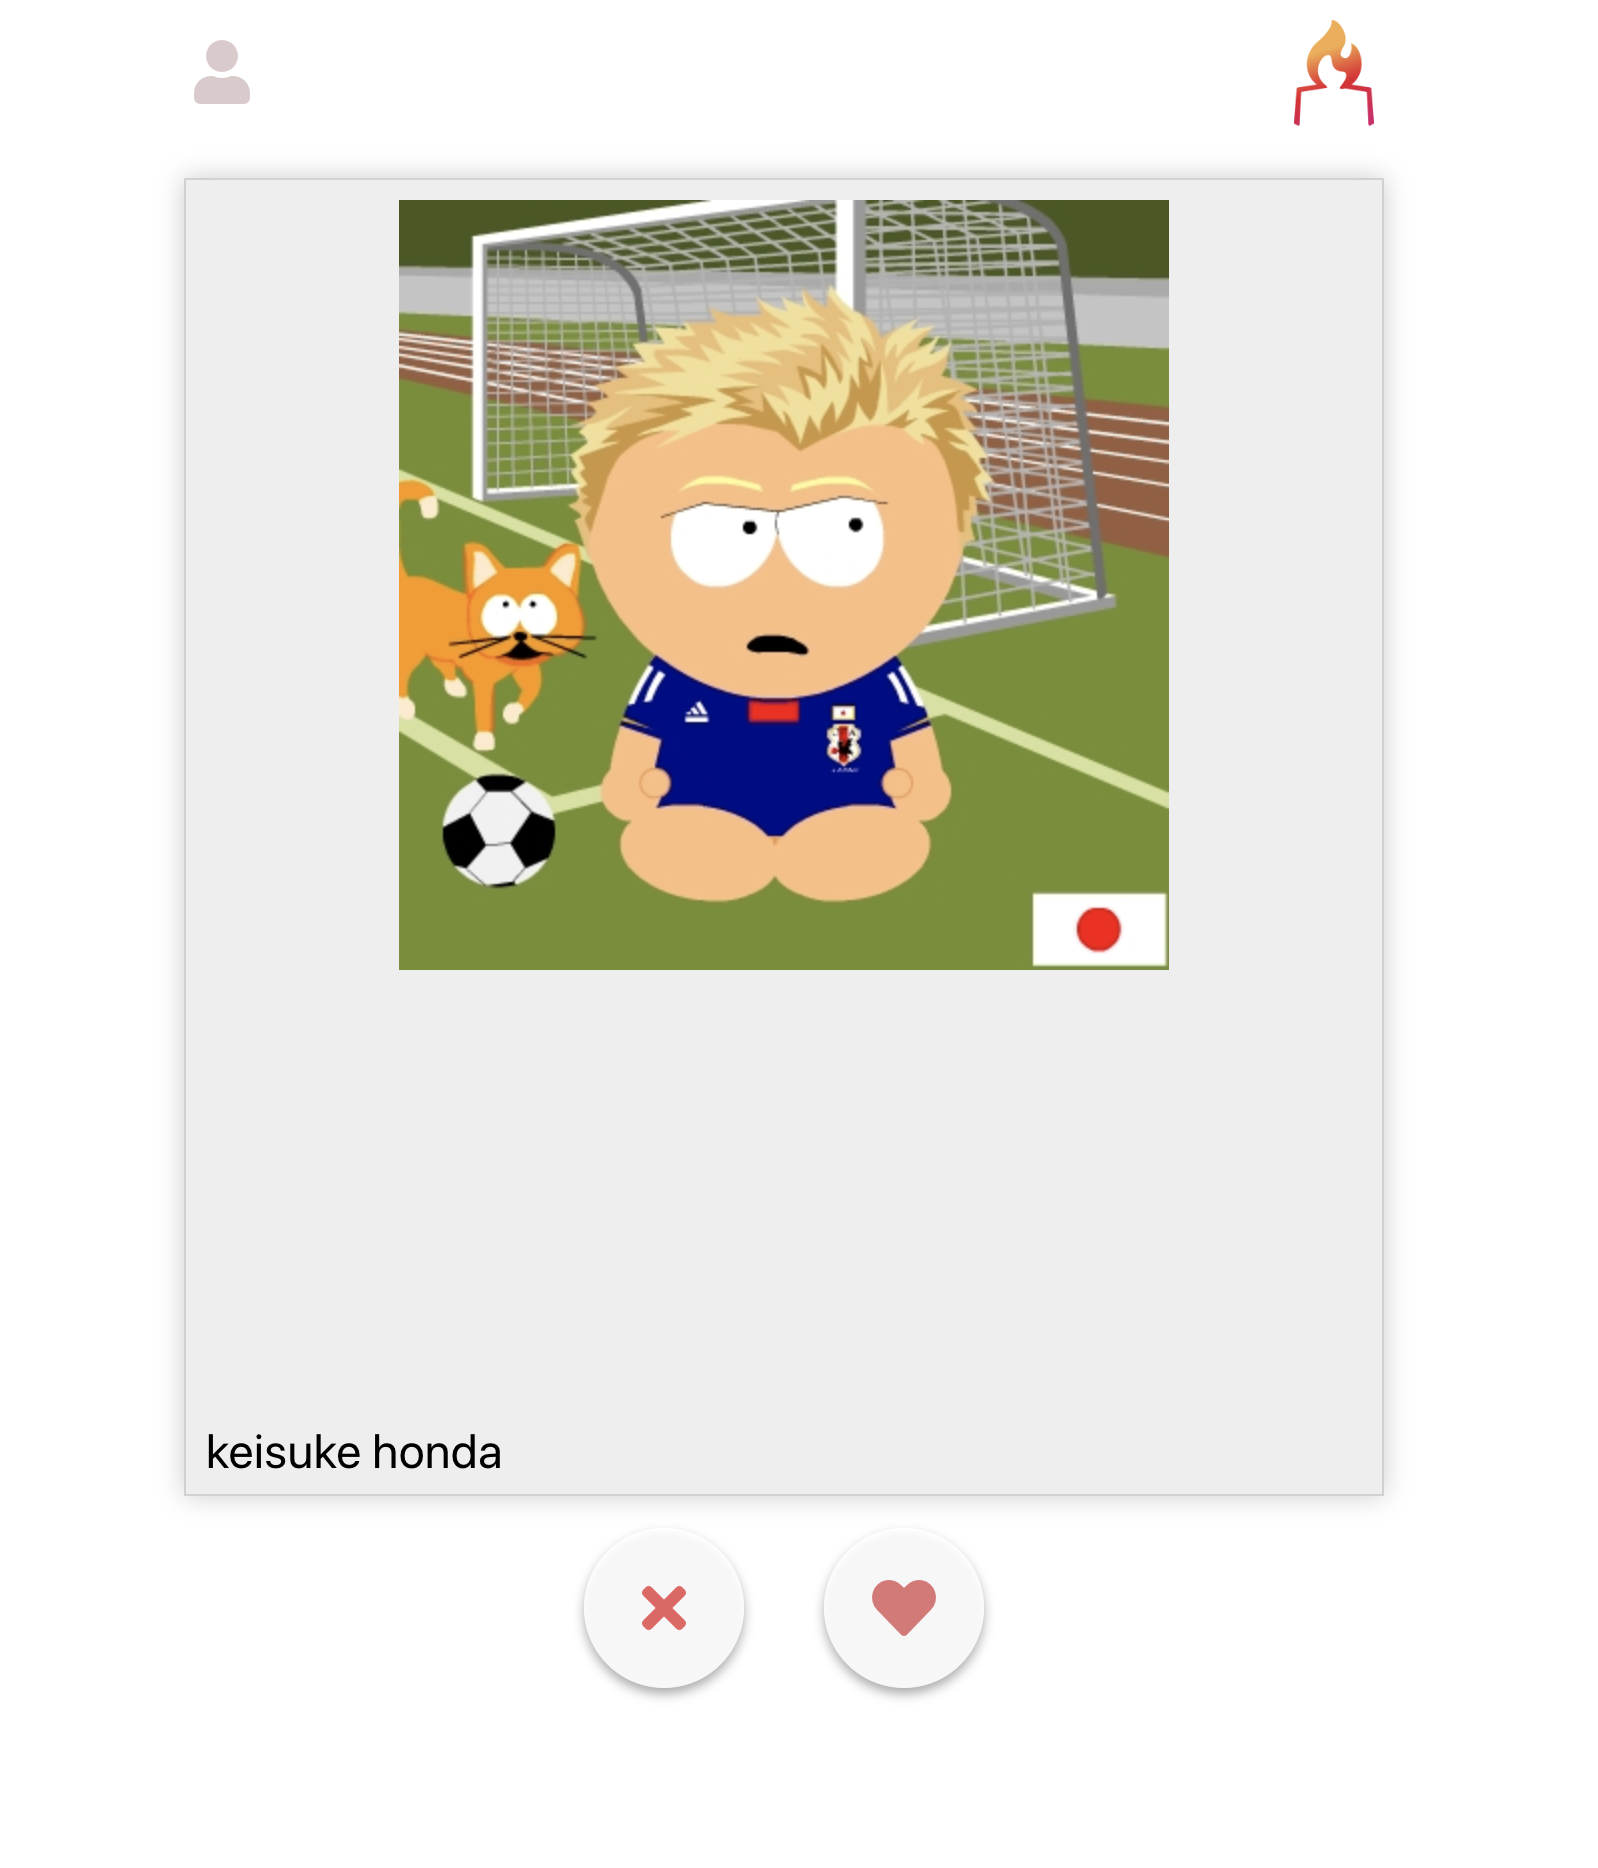
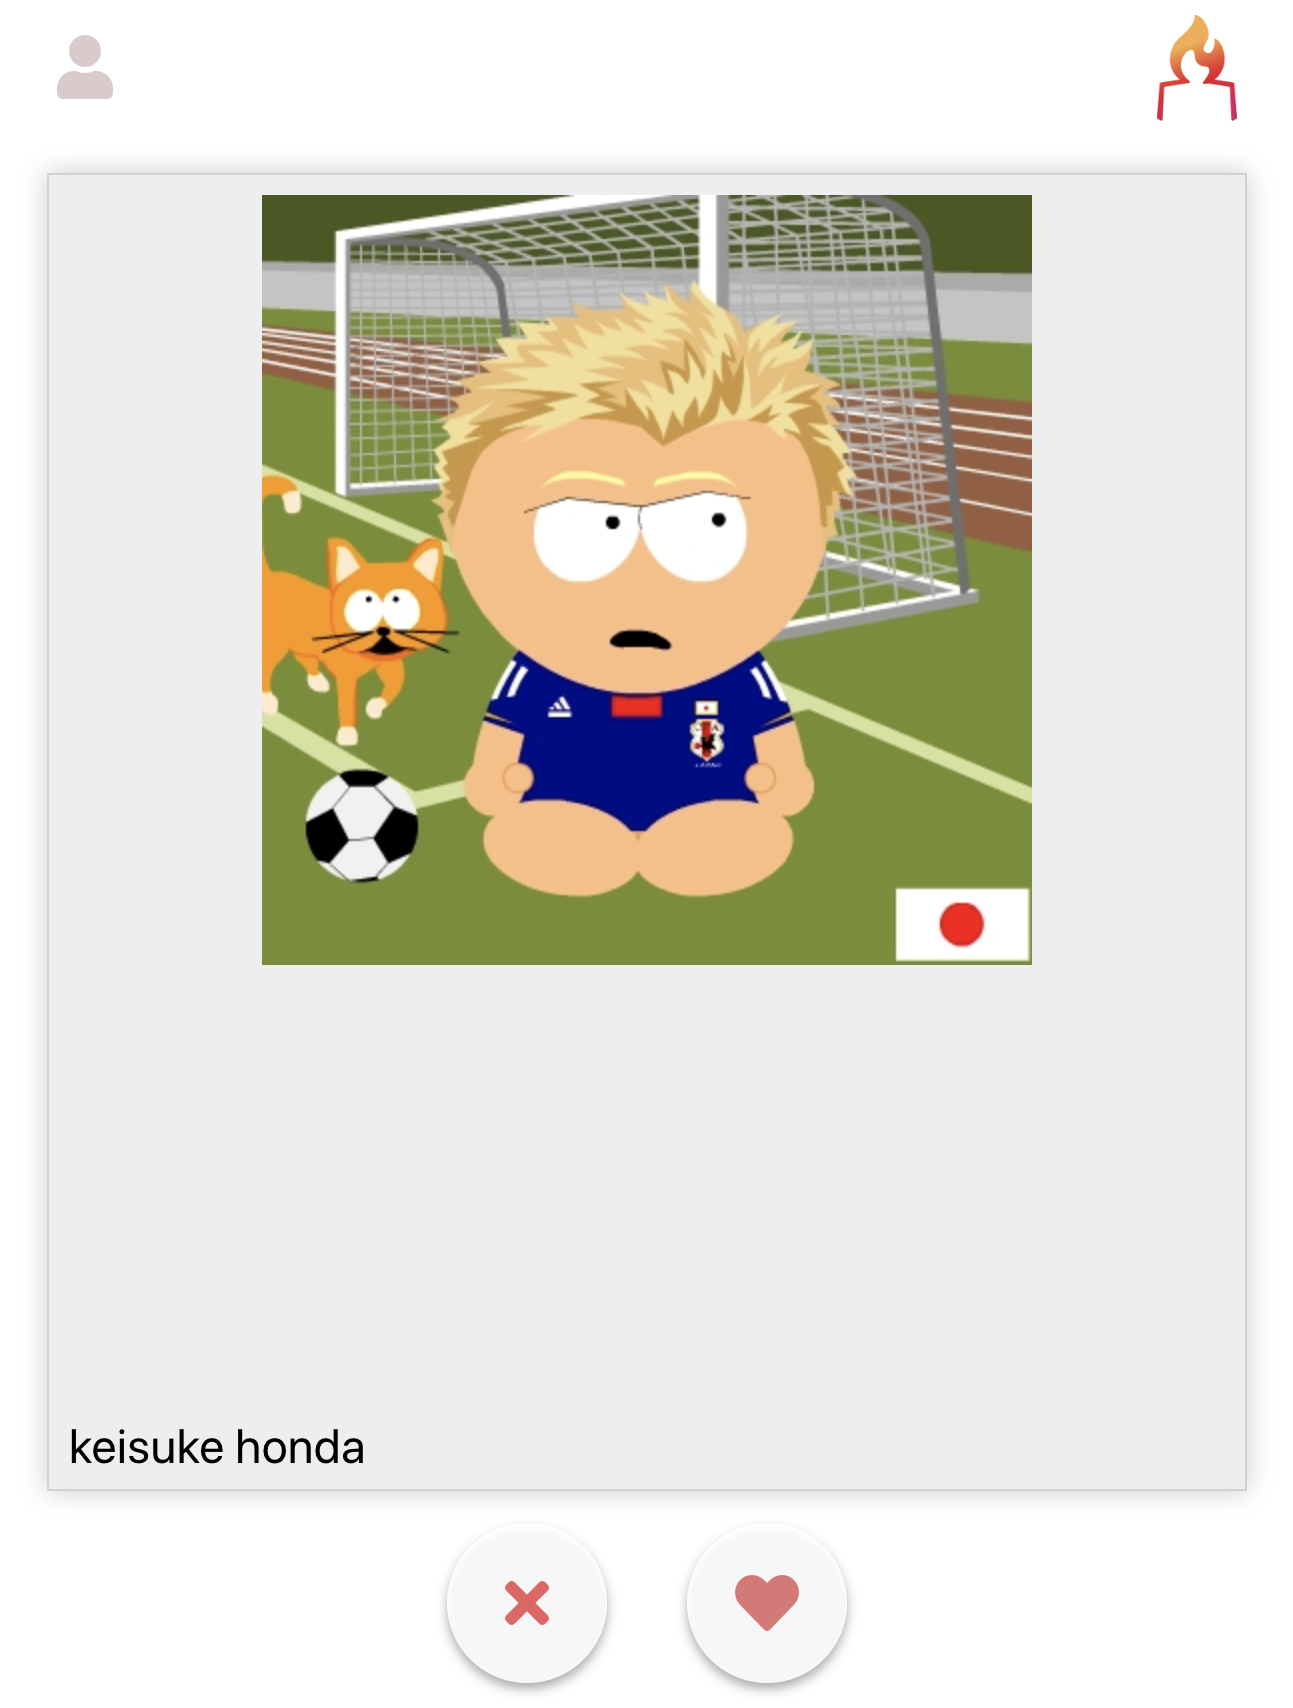
Change image size

diff --git a/index.html b/index.html
@@ -81,7 +81,7 @@
             </a>
           </div>
 
-          <div class="col-md-6 col-lg-6 img-responsive-overwrite">
+          <div class="col-md-5 col-lg-5 img-responsive-overwrite">
             <a class="portfolio-item d-block mx-auto" href="#portfolio-modal-2">
               <div class="portfolio-item-caption d-flex position-absolute h-100 w-100">
                 <div class="portfolio-item-caption-content my-auto w-100 text-center text-white">
